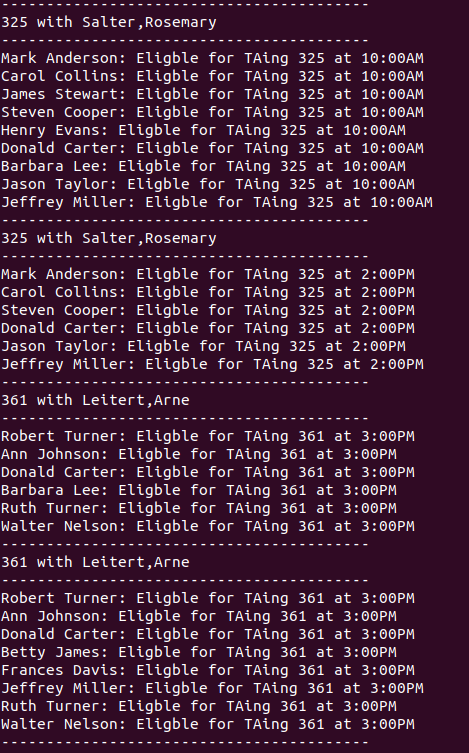
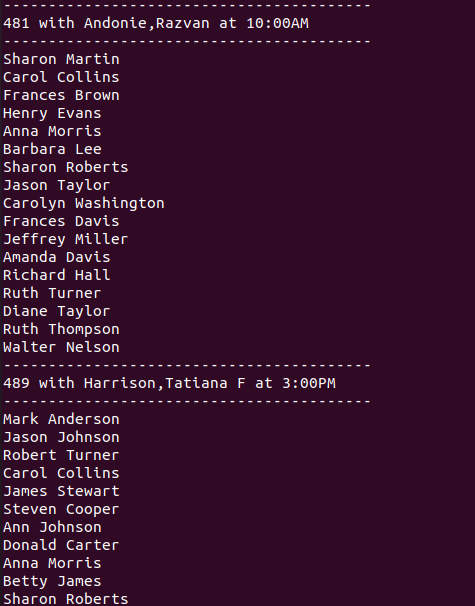
Changed print stament for clarity, removed redundant infromation.

Changed region(s): [[0.0, 0.0, 0.9254, 1.0]]

diff --git a/code_demos/main.py b/code_demos/main.py
@@ -102,7 +102,7 @@ for class_sections in C.classes : #Class section
 	daySet = dayMap(class_sections.info['Days'])
 	time_stringS = class_sections.info['Start']
 	print("-----------------------------------------")
-	print(CID + " with " + class_sections.info['Name'])
+	print(CID + " with " + class_sections.info['Name']+ " at " + class_sections.info['Start'])
 	print("-----------------------------------------")
 	
 	if time_stringS != ':AM':
@@ -117,8 +117,7 @@ for class_sections in C.classes : #Class section
 					if qualified(student,CID):
 						if timeCheck(student,daySet,time_stringS):
 							pass
-							print(student.student_info[0]+ " " + student.student_info[1] + ": Eligble for TAing "
-							+ CID + " at " + class_sections.info['Start'])
+							print(student.student_info[0]+ " " + student.student_info[1])
 	else:
 		print("No compatible combo")
 		pass
